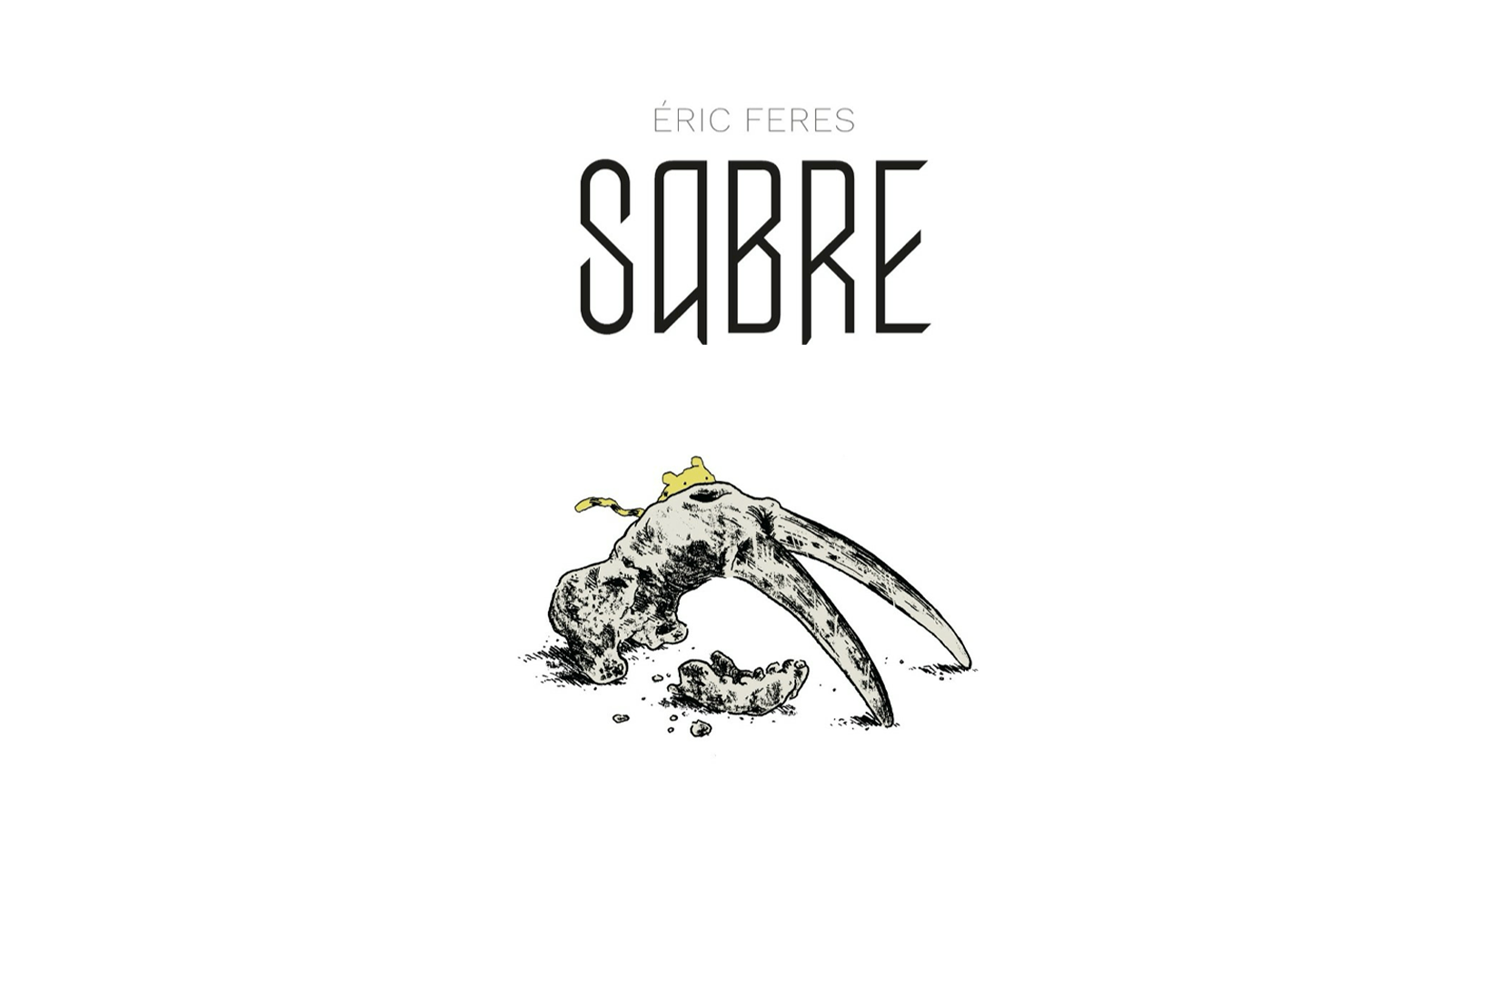
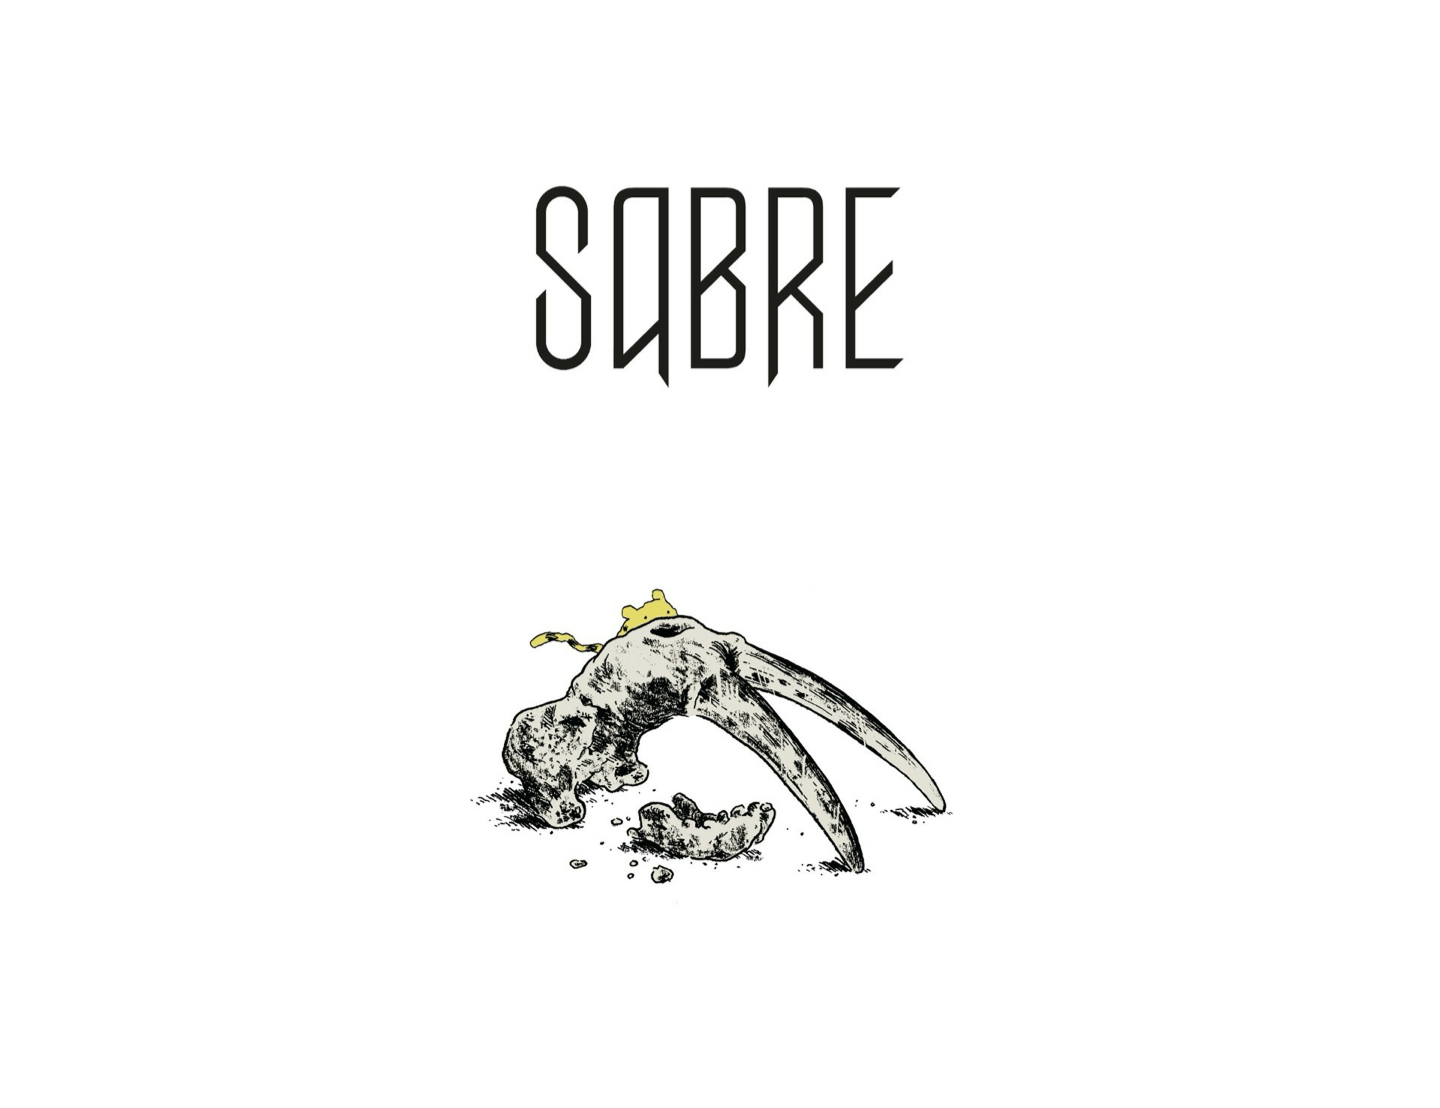
fin de journée 20.11

Changed region(s): [[0.3438, 0.4582, 0.6562, 0.7943], [0.375, 0.0916, 0.625, 0.3666], [0.4375, 0.0916, 0.4688, 0.1222]]

diff --git a/src/scss/modules/_header.scss b/src/scss/modules/_header.scss
@@ -4,6 +4,7 @@ header {
 
 header img {
   width: 100%;
+  height: 100vh;
   background-image: url(/src/img/homepage.png);
   background-repeat: no-repeat;
 }
@@ -13,15 +14,36 @@ header .homepage-container {
 
   .call-to-action {
     position: absolute;
-    top: 75%;
+    top: 80%;
     left: 68%;
+  }
+
+  .call-to-action:hover {
+    background-color: #e8da61;
+    text-decoration: underline;
   }
 
   .flèche {
     position: absolute;
-    top: 85%;
+    top: 90%;
     left: 50%;
   }
+
+  h1 {
+    position: absolute;
+    margin-top: 6.5%;
+    left: 40%;
+  }
+}
+
+h1 {
+  color: #24231e;
+  leading-trim: both;
+  text-edge: cap;
+  font-family: Montserrat;
+  font-size: 37px;
+  font-weight: 300;
+  letter-spacing: 1.6px;
 }
 
 header button.call-to-action {

diff --git a/src/index.html b/src/index.html
@@ -35,6 +35,7 @@
   <body>
     <header>
       <div class="homepage-container">
+        <h1>ÉRIC FERES</h1>
         <img src="img/homepage.png?as=webp" alt="homepage" />
         <button
           class="call-to-action"

diff --git a/src/scss/modules/_footer.scss b/src/scss/modules/_footer.scss
@@ -25,6 +25,10 @@ footer img {
     top: 65%;
     left: 57%;
   }
+  .call-to-action:hover {
+    background-color: #e8da61;
+    text-decoration: underline;
+  }
 
   .produit {
     position: absolute;
